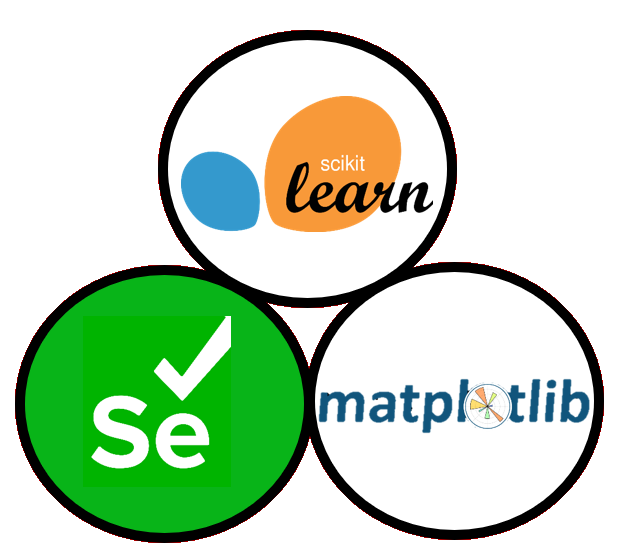
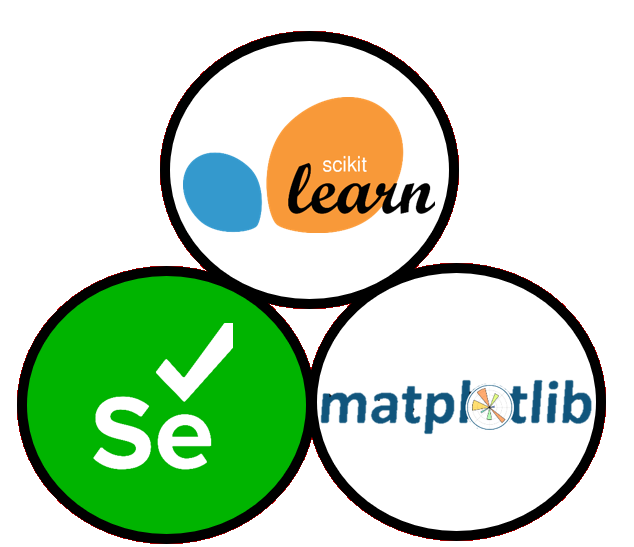
Added civic digital fellowship information

diff --git a/index.html b/index.html
@@ -35,7 +35,7 @@
             <td>
               <img class="profile" src="images/profile.jpg" alt="Vinay Tummarakota" />
               <h1>Hi! I'm Vinay Tummarakota</h1>
-              <h4>- aspiring software developer & political commentator -</h4>
+              <h4>- aspiring data scientist & political analyst -</h4>
             </td>
             <td>
               <div class="marquee-container">
@@ -171,11 +171,31 @@
       <div class="container">
         <div class="row job">
           <div class="col-lg-3">
+            <img class="job-image" src="images/cdf.png" alt="Civic Digital Fellowship" />
+          </div>
+          <div class="col-lg-6 job-description">
+            <h4 class="job-header">Civic Digital Fellowship</h4>
+            <h6 class="job-subheader">Data Science Fellow | Bethesda, MD | Fall 2020</h6>
+            <p> The Civic Digital Fellowship is truly a one-of-a-kind program, pairing together students passionate about technology
+              with federal government agencies that are looking for technical expertise to improve their operations. Working for the National
+              Institute on Aging, I developed web-scraping and machine learning scripts to swiftly compile and categorize public
+              information useful to the NIA. I also had the wonderful experience of meeting pioneers within the field of civic technology
+              such as members of the US Digital Service and 18F. Engaging with these organizations inspired
+              me to think more deeply about how I can utilize my passion for data science to benefit others.
+
+          </p>
+          </div>
+          <div class="col-lg-3">
+            <img src="images/cdf_bubbles.png" alt="Tools Used: Selenium, Scikit-learn, Matplotlib" class="bubbles"/>
+          </div>
+        </div>
+        <div class="row job">
+          <div class="col-lg-3">
             <img class="job-image" src="images/riceapps.png" alt="Rice Apps" />
           </div>
           <div class="col-lg-6 job-description">
             <h4 class="job-header">RiceApps Hedwig Team</h4>
-            <h6 class="job-subheader">Software Developer | Houston, TX | Sep 2020 - Present</h6>
+            <h6 class="job-subheader">Software Developer | Houston, TX | 2020-2021 School Year </h6>
             <p> RiceApps is a student-run organization that develops web apps for clients near and
               dear to the Rice community. As part of RiceApps, I'm a developer for Hedwig - a mobile-friendly
               website that facilitates campus businesses' ability to deliver food directly to students.
@@ -185,7 +205,7 @@
           </p>
           </div>
           <div class="col-lg-3">
-            <img src="images/riceapps_bubbles.png" alt="Python" class="bubbles"/>
+            <img src="images/riceapps_bubbles.png" alt="Tools Used: React, GraphQL, Styled Components" class="bubbles"/>
           </div>
         </div>
         <div class="row job">
@@ -204,16 +224,16 @@
           </p>
           </div>
           <div class="col-lg-3">
-            <img src="images/lake_bubbles.png" alt="Python" class="bubbles"/>
+            <img src="images/lake_bubbles.png" alt="Tools Used: Python, Tkinter, Pandas, Matplotlib" class="bubbles"/>
           </div>
         </div>
         <div class="row job">
           <div class="col-lg-3 ">
-            <img class="job-image" src="images/fermilab.png" alt="fermilab" />
+            <img class="job-image" src="images/fermilab.png" alt="Fermi National Accelerator Laboratory" />
           </div>
           <div class="col-lg-6 job-description">
             <h4 class="job-header">Fermi National Accelerator Laboratory</h4>
-            <h6 class="job-subheader">Research Intern | Batavia, IL | Aug 2017 - May 2019</h6>
+            <h6 class="job-subheader">Research Intern | Batavia, IL | 2017-2019 School Years</h6>
             <p>The Standard Model of Particle Physics describes three fundamental forces and the
                 set of elementary particles which constitute the universe. But what if at a certain energy scale, the Standard Model's "elementary"
                 particles can be shown to be composed of more fundamental particles? Using C++ and ROOT (a data analysis framework), I created a Bayesian
@@ -222,12 +242,12 @@
           </p>
           </div>
           <div class="col-lg-3">
-            <img src="images/fermilab_bubbles.png" alt="C++" class="bubbles"/>
+            <img src="images/fermilab_bubbles.png" alt="Tools Used: C++, LaTex, ROOT Statistical Analysis Framework" class="bubbles"/>
           </div>
         </div>
         <div class="row job">
           <div class="col-lg-3">
-            <img class="job-image" src="images/caterpillar.png" alt="caterpillar" />
+            <img class="job-image" src="images/caterpillar.png" alt="Caterpillar Inc." />
           </div>
           <div class="col-lg-6 job-description">
             <h4 class="job-header">Caterpillar Inc.</h4>
@@ -243,7 +263,7 @@
                    </p>
           </div>
           <div class="col-lg-3">
-            <img src="images/cat_bubbles.png" alt="Power BI" class="bubbles" />
+            <img src="images/cat_bubbles.png" alt="Tools Used: Power BI, Oracle, Data Analysis Expressions (DAX)" class="bubbles" />
           </div>
       </div>
     </div>
